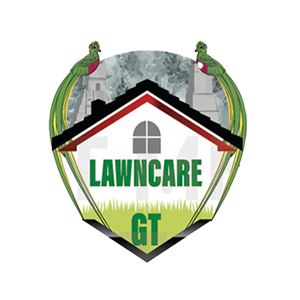
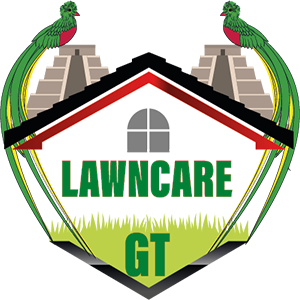
footer update

diff --git a/css/style.css b/css/style.css
@@ -95,7 +95,8 @@ header#inner-navigation {
 #inner-navigation .navbar.navbar-sticky-in .logo img{width: auto;}
 
 #inner-navigation .logo {
-    margin: -29px -92px;
+  margin: 4px -100px;
+  width: 223px;
 }
 
 #inner-navigation .get-quote {
@@ -494,8 +495,8 @@ background-color: #FFFFFF !important;
 
     .logo img{
       float: left;
-      width: 74%;
-      padding: 24px 72px 10px;
+      width: 77%;
+      padding: 5px 90px 0px;
     }
 
     #inner-navigation .navbar-nav-wrapper {
@@ -2882,7 +2883,7 @@ section#mt_faq-testi .section_heading{padding: 0;}
 
 #pagebanner:before{
   content: '';
-  background:  #117819ab;
+  background:  #1a281a;
   height: 100%;
   width: 100%;
   position: absolute;
@@ -3015,7 +3016,7 @@ section#mt_faq-testi .section_heading{padding: 0;}
     display: inline-block;
     padding: 15px 30px;
     border: 1px solid #f1f1f1;
-    background: #fbfbfb;
+    background: #5aa35c;
 }
 
 #mt_contact.contact-main .contact-info ul{margin-bottom: 0;}

diff --git a/css/default.css b/css/default.css
@@ -175,7 +175,7 @@ ul li {
   font-weight: 400;
   margin-bottom: 15px;
   line-height: 24px;
-  color: #666;
+  color: #FFF;
   position: relative;
   padding: 0;
   font-family: 'Roboto', sans-serif;

diff --git a/php/secction/footer.php b/php/secction/footer.php
@@ -8,7 +8,7 @@
                         margin: -36px -127px;
                     ">
                         <a href="index.html">
-                            <img src="img/log.png" alt="Logo">
+                            <img src="img/new.png" alt="Logo">
                         </a>
                         <p> <?php echo $footer ?></p>
 
@@ -42,69 +42,33 @@
                 </div>
                 <div class="col-md-2 col-sm-6 col-xs-12">
                     <div class="mt_contact_ftr">
-                        <h3>Quick Links</h3>
+                        <h3>Services</h3>
                          <ul>
-                            <li><a href="index.php"><i class="fa fa-angle-right"></i>Home</a></li>
-                            <li><a href="About.php"><i class="fa fa-angle-right"></i>About</a></li>
-                            <li><a href="Services.php"><i class="fa fa-angle-right"></i>Services</a></li>
-                            <li><a href="gallery.php"><i class="fa fa-angle-right"></i>Gallery</a></li>
-                            <li><a href="contact.php"><i class="fa fa-angle-right"></i>Contact</a></li>
+                            <li><i class="fa fa-angle-right"></i>   Lawncare Service General </a></li>
+                            <li><i class="fa fa-angle-right"></i>   Landscaping Service General </a></li>
+                            <li><i class="fa fa-angle-right"></i>   Fence Desing  Wood - Metal</a></li>
+                            <li><i class="fa fa-angle-right"></i>   Painting Service </a></li>
+                            <li><i class="fa fa-angle-right"></i>   Pavers Service </a></li>
+                            <li><i class="fa fa-angle-right"></i>   DriveWays Concrete </a></li>
                         </ul>
                     </div>
                 </div>
                 
                 <div class="col-md-4 col-sm-12 col-xs-12">
-                    <div class="mt_post_ftr">
-                        <h3>Latest Works</h3>
+                    <div class="mt_contact_ftr">
+                        <h3>Contact us</h3>
                         <ul>
-                            <li>
-                               
-                                <div class="post_contnt_ftr">
-                                    <p>Fri, 03-07-2018 |
-                                        <span> Comment (8)</span>
-                                    </p>
-                                    <h4>
-                                        <a href="https://www.facebook.com/"">Lawncare</a>
-                                    </h4>
-                                </div>
-                            </li>
-                            <li>
-                                    
-                                <div class="post_contnt_ftr">
-                                    <p>Fri, 12-10-2019 |
-                                        <span> Comment (10)</span>
-                                    </p>
-                                    <h4>
-                                        <a href="https://www.facebook.com/"">DriveWays Concrete</a>
-                                    </h4>
-                                </div>
-                            </li>
-                            <li>
-                                
-                                <div class="post_contnt_ftr">
-                                    <p>Fri, 14-07-2022 |
-                                        <span> Comment (21)</span>
-                                    </p>
-                                    <h4>
-                                        <a href="https://www.facebook.com/"">ladscaping</a>
-                                    </h4>
-                                </div>
-                            </li>
-                            <li>
-                               
-                                <div class="post_contnt_ftr">
-                                    <p>Fri, 10-01-2022 |
-                                       <span> Comment (10)</span>
-                                    </p>
-                                    <h4>
-                                        <a href="https://www.facebook.com/"">paiting and remodelation</a>
-                                    </h4>
-                                </div>
-                            </li>
+                            <li> <i class="fa fa-angle-right"></i> 316 W 12th St Columbia TN 38401</li></a>
+                            <li> <i class="fa fa-angle-right"></i> (931)-398-4588</li></a>
+                            <li> <i class="fa fa-angle-right"></i> reyesvictorhugo52@gmail.com</li></a>
+                            <li> <i class="fa fa-angle-right"></i> Cash, cheque & Paypall</li></a>
+                            <li> <i class="fa fa-angle-right"></i> Monday to Sunday 24/7</li></a>
+                            
                         </ul>
                     </div>
                 </div>
                 
+
 
             </div>
         </div>

diff --git a/php/secction/slider.php b/php/secction/slider.php
@@ -13,7 +13,7 @@
         <!-- Left Slide Text Layer -->
         <div class="caption_slide1 fadeInRight" data-animation="animated fadeInRight">
             <span class="white">GT LAWNCARE</span>
-            <h1 class="white">with more than 5 years of experience</h1>
+            <h1 class="white">With more than 5 years of experience</h1>
             <p class="white mar-bottom-25"></p>
             <a href="services.php" class="btn mt_btn_yellow">View Services</a>
         </div><!-- /Left Slide Text Layer -->
@@ -27,7 +27,7 @@
         <!-- Right Slide Text Layer -->
         <div class="caption_slide1 wow fadeInUp" data-animation="animated fadeInLeft">
             <span class="white">GT LAWNCARE</span>
-            <h1 class="white">we travel 40/60 miles negotiable</h1>
+            <h1 class="white">We travel 40/60 miles negotiable</h1>
             <p class="white mar-bottom-25"></p>
             <a href="services.php" class="btn mt_btn_yellow">View Services</a>
         </div><!-- /Right Slide Text Layer -->
@@ -41,7 +41,7 @@
         <!-- Center Slide Text Layer -->
         <div class="caption_slide1 wow fadeInDown" data-animation="animated fadeInDown">
             <span class="white">GT LAWNCARE</span>
-            <h1 class="white">with 24/7 hours negotiable</h1>
+            <h1 class="white">With 24/7 hours negotiable</h1>
             <p class="white mar-bottom-25"></p>
             <a href="services.php" class="btn mt_btn_yellow">View Services</a>
         </div><!-- /Center Slide Text Layer -->

diff --git a/php/secction/header.php b/php/secction/header.php
@@ -110,7 +110,7 @@ elseif ($page_name=='contact.php') {echo "$Company | Contact";}?>
             <div class="container">
 
                 <div class="logo pull-left">
-                    <a href="index.php"><img src="img/hea.png" alt=""></a>
+                    <a href="index.php"><img src="img/new.png" alt=""></a>
                 </div>
                 
                 <div id="navbar" class="navbar-nav-wrapper pull-right">
